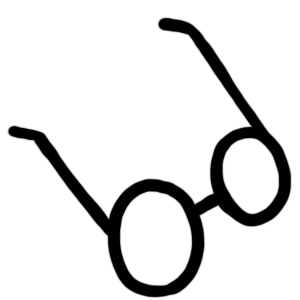
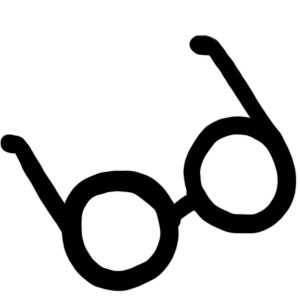
Update home routing

Changed region(s): [[0.0, 0.06, 0.99, 1.0], [0.87, 0.48, 0.9, 0.51]]

diff --git a/src/app/page.js b/src/app/page.js
@@ -1,25 +1,130 @@
 "use client";
 
-import './globals.css';
 import React, { useState, useEffect } from "react";
-import dynamic from "next/dynamic";
-
-const DynamicCanvas = dynamic(() => import("../components/generateWand"), {
-  ssr: false,
-});
+import { useRouter } from "next/navigation";
+import './globals.css';
+import styles from './page.module.css';
+import WandCanvas from "@/components/wandCanvas";
+import { useSocket } from "@/components/socketContext";
 
 export default function Home() {
-  const [mounted, setMounted] = useState(false);
-
+  const router = useRouter();
+  const socket = useSocket();
+  const [modelIndex, setModelIndex] = useState(0);
+  
   useEffect(() => {
-    setMounted(true);
-  }, []);
+    if (!socket) return;
 
-  if (!mounted) return null; // 클라이언트 마운트 전엔 아무것도 렌더링하지 않음
+    // Request initial player data
+    socket.emit("getPlayers");
+
+    // Listen for initial player data and updates
+    socket.on("playerData", (data) => {
+      if (data.players[data.id]) {
+        setModelIndex(data.players[data.id].model);
+      }
+    });
+
+    socket.on("players", (players) => {
+      if (socket.id && players[socket.id]) {
+        setModelIndex(players[socket.id].model);
+      }
+    });
+
+    return () => {
+      socket.off("playerData");
+      socket.off("players");
+    };
+  }, [socket]);
 
   return (
-    <div style={{background:"#000000ff", margin: 0, overflow: 'hidden' }}>
-      <DynamicCanvas />
+    <div className={styles.page}>
+      <WandCanvas
+        canvasStyle={{
+          position: "fixed",
+          left: "0",
+          top: "0",
+          width: "100vw",
+          height: "100vh",
+          zIndex: 0,
+          background: "transparent",
+        }}
+        cameraProps={{ position: [0, 0, 20], fov: 45 }}
+        modelIndex={modelIndex}
+        hue={[255, 255, 255]}
+        useOrbit={false}
+      />
+      <div className={styles.main} style={{ 
+        textAlign: 'center', 
+        maxWidth: '800px', 
+        color: '#fff',
+        position: 'relative',
+        zIndex: 1,
+        backgroundColor: 'rgba(0, 0, 0, 0.7)',
+        padding: '40px',
+        borderRadius: '10px'
+      }}>
+        <h1 style={{ 
+          fontFamily: '"Special Gothic Expanded One", sans-serif',
+          marginBottom: '20px'
+        }}>
+          Where Does Melancholy Come From, and Where Is It Heading?
+        </h1>
+        <h3 style={{ 
+          fontStyle: 'italic',
+          color: '#ccc',
+          marginBottom: '40px',
+          fontFamily: '"PT Serif", serif'
+        }}>
+          우울은 어디에서 와서 어디로 가는걸까?
+        </h3>
+
+        <h2 style={{ 
+          fontFamily: '"Special Gothic Expanded One", sans-serif',
+          color: '#fff',
+          marginBottom: '20px'
+        }}>
+          WELCOME
+        </h2>
+        <p style={{ 
+          fontFamily: '"PT Serif", serif',
+          lineHeight: '1.5',
+          color: '#ccc',
+          textAlign: 'left',
+          textIndent: '1em',
+          marginBottom: '40px'
+        }}>
+          Welcome to my private space of tender and shy thoughts - where sorrows,
+          cherished memories, and hopes intertwine. Explore the reflections tied
+          to each color and discover your own magical hue.
+        </p>
+
+        <button
+          onClick={() => router.push('/archive/red')}
+          style={{
+            padding: '12px 24px',
+            fontSize: '16px',
+            fontFamily: '"Special Gothic Expanded One", sans-serif',
+            border: '2px solid #fff',
+            borderRadius: '4px',
+            background: 'transparent',
+            color: '#fff',
+            cursor: 'pointer',
+            transition: 'all 0.3s ease',
+            marginTop: '20px'
+          }}
+          onMouseOver={(e) => {
+            e.currentTarget.style.background = '#fff';
+            e.currentTarget.style.color = '#000';
+          }}
+          onMouseOut={(e) => {
+            e.currentTarget.style.background = 'transparent';
+            e.currentTarget.style.color = '#fff';
+          }}
+        >
+          Enter magical space
+        </button>
+      </div>
     </div>
   );
 }

diff --git a/src/app/page.module.css b/src/app/page.module.css
@@ -1,4 +1,4 @@
-a {
+.link {
   color: inherit;
   text-decoration: none !important;
 }
@@ -19,6 +19,7 @@ a {
   padding: 80px;
   gap: 64px;
   font-family: var(--font-geist-sans);
+  background: #000;
 }
 
 @media (prefers-color-scheme: dark) {
@@ -66,7 +67,7 @@ a {
   gap: 16px;
 }
 
-.ctas a {
+.cta {
   appearance: none;
   border-radius: 128px;
   height: 48px;
@@ -86,13 +87,13 @@ a {
   font-weight: 500;
 }
 
-a.primary {
+.primary {
   background: var(--foreground);
   color: var(--background);
   gap: 8px;
 }
 
-a.secondary {
+.secondary {
   border-color: var(--gray-alpha-200);
   min-width: 180px;
 }
@@ -103,7 +104,7 @@ a.secondary {
   gap: 24px;
 }
 
-.footer a {
+.footer .link {
   display: flex;
   align-items: center;
   gap: 8px;
@@ -115,17 +116,17 @@ a.secondary {
 
 /* Enable hover only on non-touch devices */
 @media (hover: hover) and (pointer: fine) {
-  a.primary:hover {
+  .primary:hover {
     background: var(--button-primary-hover);
     border-color: transparent;
   }
 
-  a.secondary:hover {
+  .secondary:hover {
     background: var(--button-secondary-hover);
     border-color: transparent;
   }
 
-  .footer a:hover {
+  .footer .link:hover {
     text-decoration: underline;
     text-underline-offset: 4px;
   }
@@ -149,13 +150,13 @@ a.secondary {
     flex-direction: column;
   }
 
-  .ctas a {
+  .cta {
     font-size: 14px;
     height: 40px;
     padding: 0 16px;
   }
 
-  a.secondary {
+  .secondary {
     min-width: auto;
   }
 

diff --git a/src/components/wandCanvas.js b/src/components/wandCanvas.js
@@ -1,10 +1,26 @@
 "use client";
 
-import React from "react";
-import { Canvas } from "@react-three/fiber";
+import React, { useRef } from "react";
+import { Canvas, useFrame } from "@react-three/fiber";
 import { OrbitControls } from "@react-three/drei";
 import Wand from "./wand";
 import { motion } from "framer-motion";
+
+function RotatingWand({ modelIndex, hue }) {
+  const groupRef = useRef();
+
+  useFrame(({ clock }) => {
+    if (groupRef.current) {
+      groupRef.current.rotation.y = clock.getElapsedTime() * 0.5; // Adjust speed by changing multiplier
+    }
+  });
+
+  return (
+    <group ref={groupRef}>
+      <Wand modelIndex={modelIndex} hue={hue} />
+    </group>
+  );
+}
 
 export default function WandCanvas({
   layoutId,
@@ -29,9 +45,7 @@ export default function WandCanvas({
         <ambientLight intensity={0.7} />
         <directionalLight position={[5, 5, 5]} intensity={1} />
         <pointLight position={[0, 0, 0]} intensity={0.5} />
-        <group position={[0, 0, 0]} rotation={[0, 0,0]}>
-          <Wand modelIndex={modelIndex} hue={hue} />
-        </group>
+        <RotatingWand modelIndex={modelIndex} hue={hue} />
         {useOrbit && <OrbitControls minDistance={5} maxDistance={50} />}
         {children}
       </Canvas>

diff --git a/src/app/(dashboard)/layout.js b/src/app/(dashboard)/layout.js
@@ -75,17 +75,12 @@ function LayoutWrapper({ children }) {
               alignItems: "center",
               justifyContent: "center",
               transition: "background-color 0.3s",
+              backgroundImage: "url('/home.png')",
+              backgroundSize: "80%",
+              backgroundRepeat: "no-repeat",
+              backgroundPosition: "center",
             }}
           >
-            <img
-              src="/ribbon.png"
-              alt="Home"
-              style={{
-                width: "20px",
-                height: "20px",
-                objectFit: "contain"
-              }}
-            />
           </button>
         </>
       )}

diff --git a/src/app/(dashboard)/initToken/page.js b/src/app/(dashboard)/initToken/page.js
@@ -27,6 +27,13 @@ export default function InitToken() {
     }
   };
 
+  const handleEnterClick = () => {
+    if (socket?.id) {
+      socket.emit("modelUpdate", { id: socket.id, model: selectedModel });
+      router.push('/');
+    }
+  };
+
   return (
     <div className={styles.container}>
       <div className={styles.modelSelectContainer}>
@@ -64,7 +71,7 @@ export default function InitToken() {
 
       <button
         className={styles.enterButton}
-        onClick={() => router.push('/')}
+        onClick={handleEnterClick}
       >
         Enter magical space
       </button>
